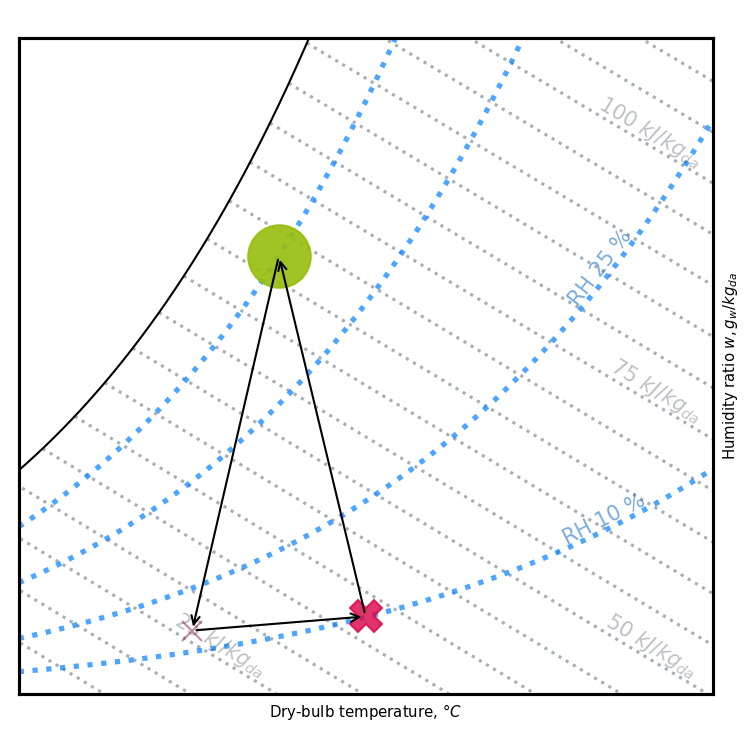
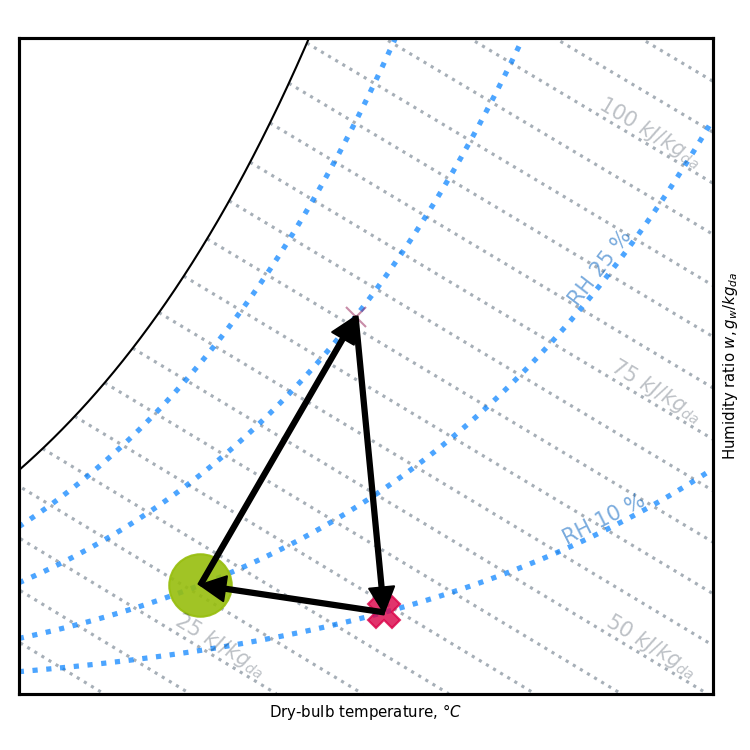
updated black arrow

Changed region(s): [[0.2147, 0.3987, 0.552, 0.8587], [0.3067, 0.276, 0.4293, 0.4907], [0.3067, 0.4907, 0.3373, 0.6133]]

diff --git a/psychoM/cust.py b/psychoM/cust.py
@@ -1,4 +1,4 @@
-from chart import gen_points_in_constant_relative_humidity,GetStandardAtmPressure
+from cp.chart import gen_points_in_constant_relative_humidity,GetStandardAtmPressure
 from cp import PsychroChart, load_config
 
 
@@ -137,7 +137,7 @@ def construct(a = A,b = B,c = C):
 def pointsarrow(chartobj,A,B):
     a = (A[0],gen_points_in_constant_relative_humidity(A[0],A[1],GetStandardAtmPressure(900)))
     b = (B[0],gen_points_in_constant_relative_humidity(B[0],B[1],GetStandardAtmPressure(900)))
-    return chartobj._axes.annotate("",a,xytext=b,arrowprops=dict(arrowstyle='->'))
+    return chartobj._axes.annotate("",a,xytext=b,arrowprops=dict(width=2.0,fc='k'))
 
 def update(tar,a,b):
     tar._handlers_annotations.append(pointsarrow(tar,a,b))
